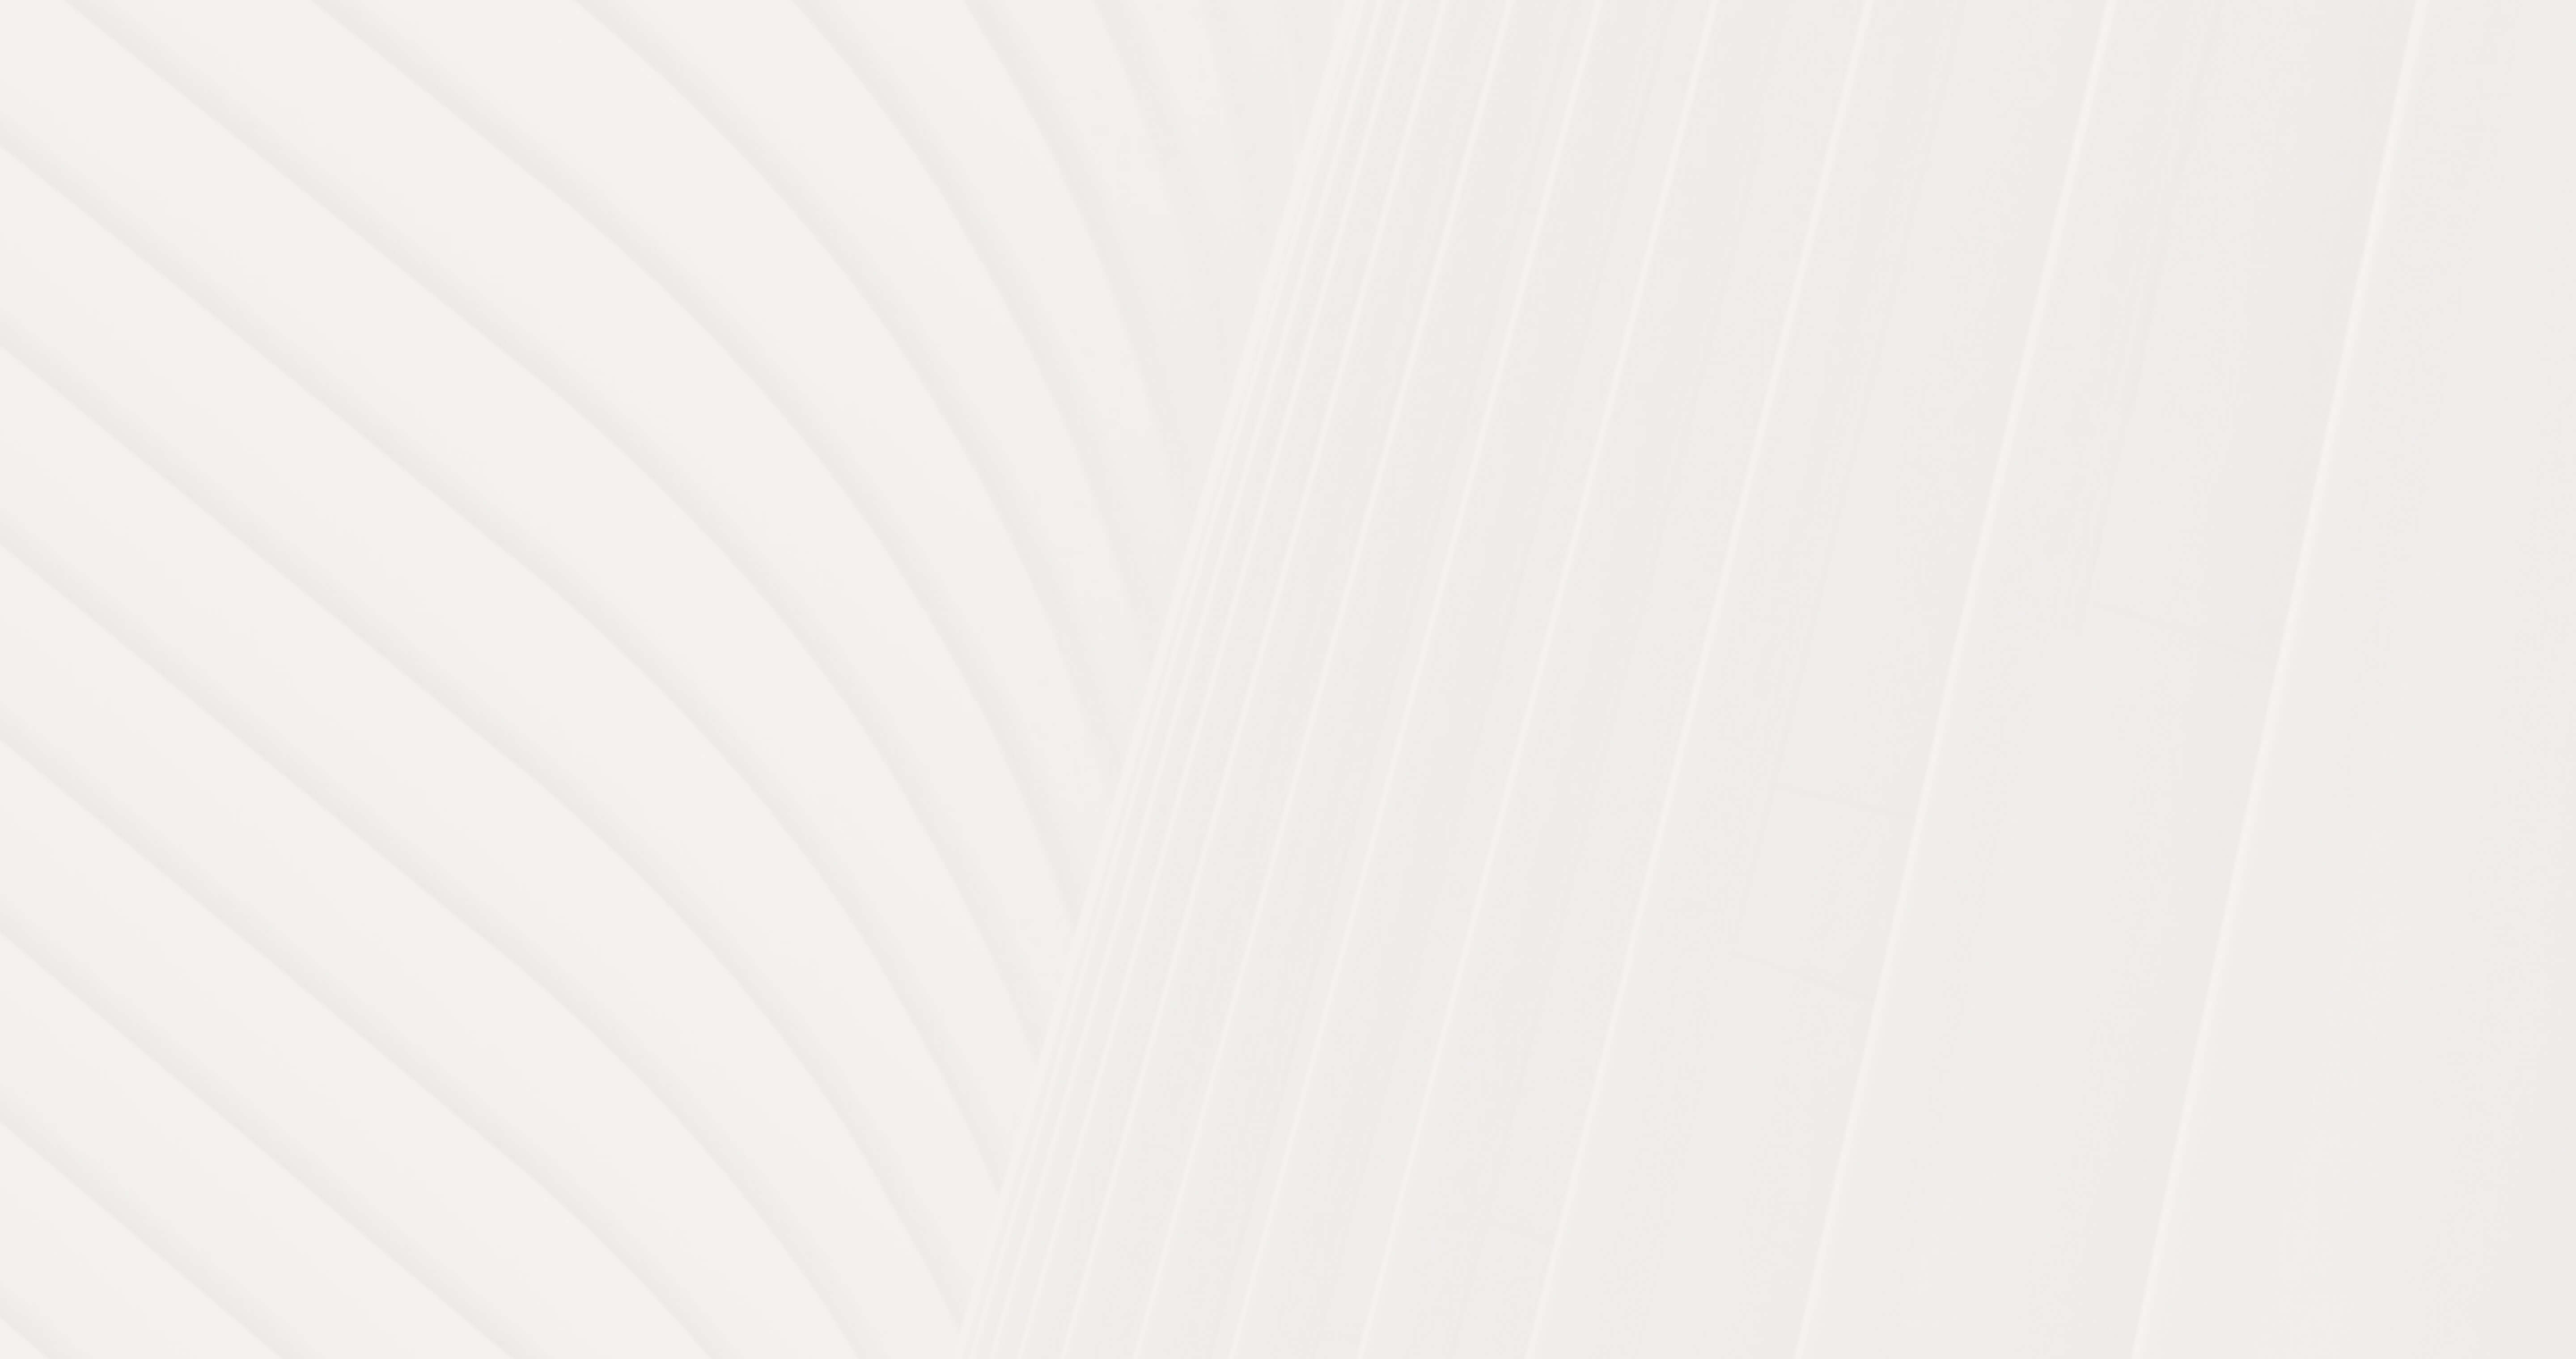
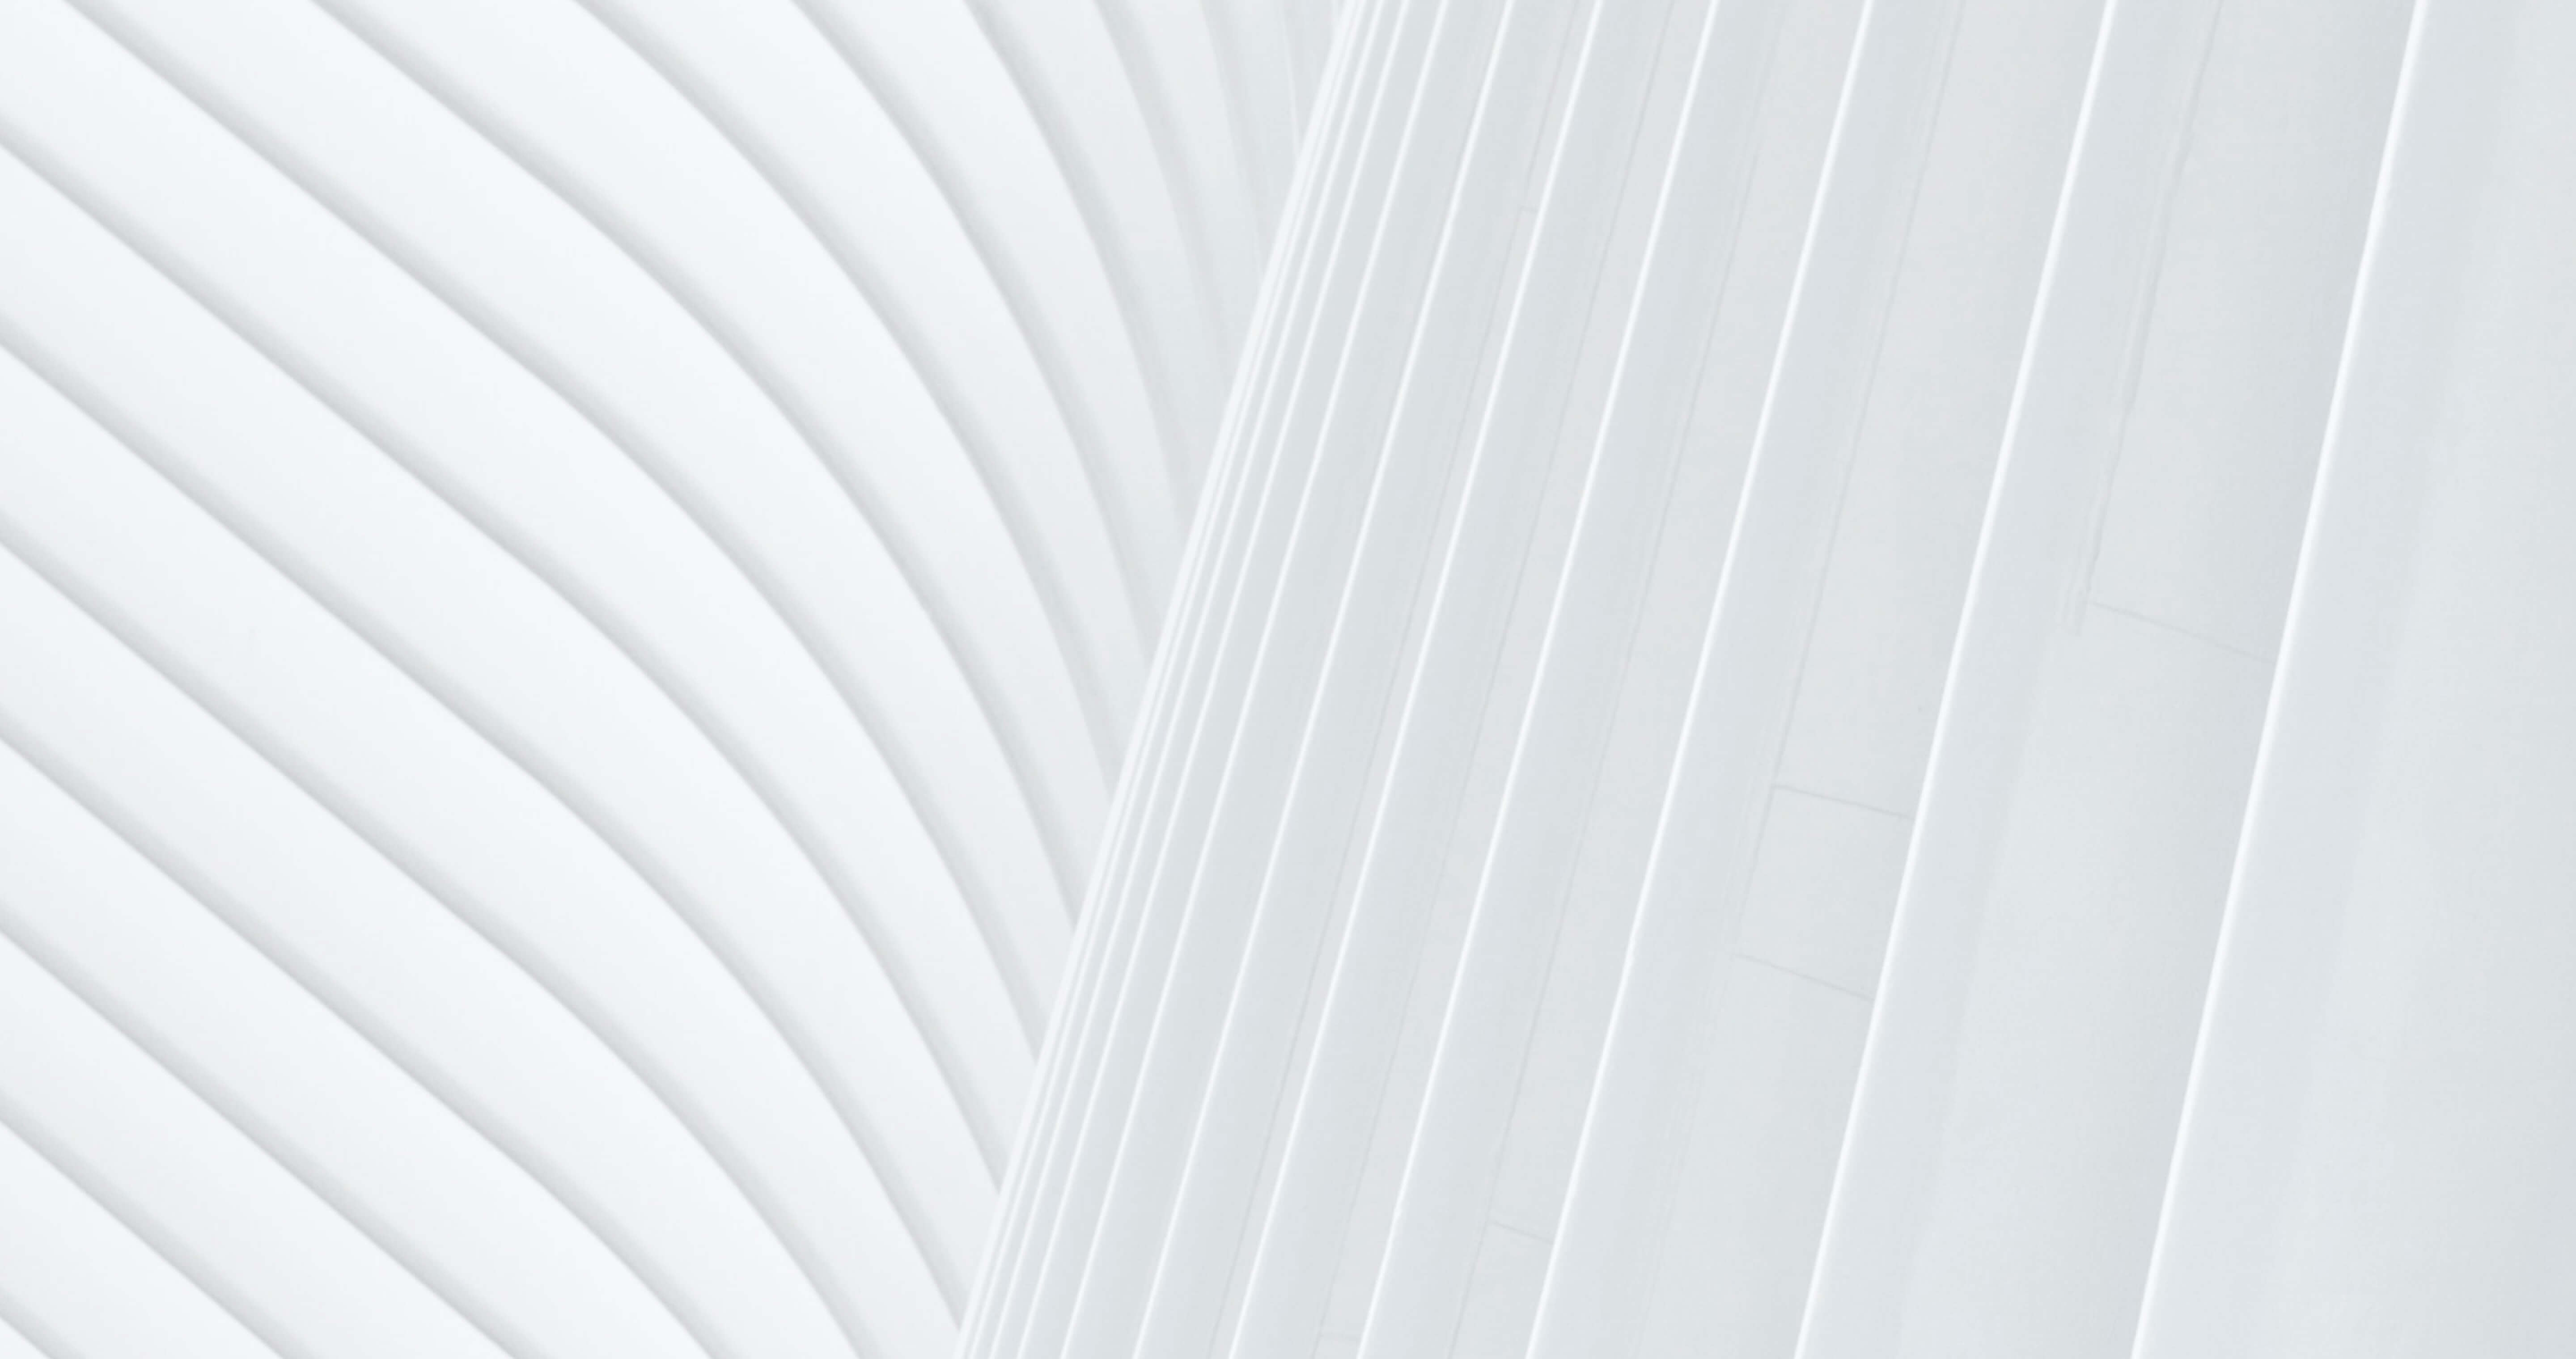
Update

diff --git a/src/index.html b/src/index.html
@@ -45,7 +45,7 @@
             <source srcset="assets/images/tell-story/bg-1440x760@4x.webp" type="image/webp">
             <img src="assets/images/tell-story/bg-1440x760@4x.jpg" alt="Background" class="tell-story__bg-image">
           </picture>
-          <div class="tell-story__bg-gradient"></div>
+          <div class="tell-story__bg-color"></div>
         </div>
         <div class="tell-story__container">
           <div class="tell-story__title-wrapper">
@@ -57,6 +57,74 @@
               <span class="arrow-link__text">tell my story</span>
               <img src="assets/images/arrow.svg" alt="Arrow" class="arrow-link__arrow">
             </a>
+          </div>
+        </div>
+      </section>
+      <section class="quote">
+        <div class="quote__container">
+          <div class="quote__content">
+            <div class="quote__small-quotes-wrapper"><img src="assets/images/quote/quotes.svg" alt="Quotes" class="quote__small-quotes"></div>
+            <p class="quote__text">Clients hire us because we deliver results. We think like entrepreneurs and create opportunities where none existed. We build long lasting connections and value personal relationships with our clients, media and influencers. We use a customized approach to solve our clients’ business challenges and we do this with finesse.</p>
+          </div>
+          <div class="quote__big-quotes-wrapper"><img src="assets/images/quote/quotes.svg" alt="Quotes" class="big-quotes"></div>
+        </div>
+      </section>
+      <section class="offer">
+        <div class="offer__container">
+          <div class="offer__top">
+            <h2 class="offer__title title">How we can help</h2>
+            <div class="offer__arrow-link-wrapper">
+              <a href="#" class="tell-story__arrow-link arrow-link">
+                <span class="arrow-link__text">tell me more</span>
+                <img src="assets/images/arrow.svg" alt="Arrow" class="arrow-link__arrow">
+              </a>
+            </div>
+          </div>
+          <div class="offer__cards">
+            <div class="offer__card card-offer">
+              <div class="card-offer__bg">
+                <img src="assets/images/card-offer/card-offer-bg@4x.jpg" alt="Offer card background" class="card-offer__bg-image">
+                <div class="card-offer__bg-color"></div>
+              </div>
+              <div class="card-offer__content">
+                <h3 class="card-offer__title">Public Relations</h3>
+                <p class="card-offer__desc">While the definition of Public Relations remains the same, the landscape is entirely different. As a PR agency, this makes strategy and relationships more important than ever. Our network of contacts runs deep throughout the…</p>
+                <a href="#" class="card-offer__more">Read more...</a>
+              </div>
+            </div>
+            <div class="offer__card card-offer">
+              <div class="card-offer__bg">
+                <img src="assets/images/card-offer/card-offer-bg@4x.jpg" alt="Offer card background" class="card-offer__bg-image">
+                <div class="card-offer__bg-color"></div>
+              </div>
+              <div class="card-offer__content">
+                <h3 class="card-offer__title">Public Relations</h3>
+                <p class="card-offer__desc">While the definition of Public Relations remains the same, the landscape is entirely different. As a PR agency, this makes strategy and relationships more important than ever. Our network of contacts runs deep throughout the…</p>
+                <a href="#" class="card-offer__more">Read more...</a>
+              </div>
+            </div>
+            <div class="offer__card card-offer">
+              <div class="card-offer__bg">
+                <img src="assets/images/card-offer/card-offer-bg@4x.jpg" alt="Offer card background" class="card-offer__bg-image">
+                <div class="card-offer__bg-color"></div>
+              </div>
+              <div class="card-offer__content">
+                <h3 class="card-offer__title">Public Relations</h3>
+                <p class="card-offer__desc">While the definition of Public Relations remains the same, the landscape is entirely different. As a PR agency, this makes strategy and relationships more important than ever. Our network of contacts runs deep throughout the…</p>
+                <a href="#" class="card-offer__more">Read more...</a>
+              </div>
+            </div>
+            <div class="offer__card card-offer">
+              <div class="card-offer__bg">
+                <img src="assets/images/card-offer/card-offer-bg@4x.jpg" alt="Offer card background" class="card-offer__bg-image">
+                <div class="card-offer__bg-color"></div>
+              </div>
+              <div class="card-offer__content">
+                <h3 class="card-offer__title">Public Relations</h3>
+                <p class="card-offer__desc">While the definition of Public Relations remains the same, the landscape is entirely different. As a PR agency, this makes strategy and relationships more important than ever. Our network of contacts runs deep throughout the…</p>
+                <a href="#" class="card-offer__more">Read more...</a>
+              </div>
+            </div>
           </div>
         </div>
       </section>

diff --git a/src/scss/blocks/quote.scss b/src/scss/blocks/quote.scss
@@ -1,0 +1,79 @@
+.quote {
+  padding: 160px 0;
+  background-color: $gray;
+  @media (max-width: $sm) {
+    padding: 80px 0;
+  }
+  &__container {
+    @extend %container;
+    @extend %grid;
+    @media (max-width: $sm) {
+      max-width: none;
+    }
+  }
+  &__content {
+    grid-column: 2 / span 4;
+    display: flex;
+    position: relative;
+    z-index: 1;
+    @media (max-width: $md) {
+      grid-row: 1 / 2;
+      grid-column: 1 / -1;
+    }
+  }
+  &__small-quotes-wrapper {
+    flex: 0 0 28px;
+    margin-right: 27px;
+    @media (max-width: $xs) {
+      display: none;
+    }
+  }
+  &__small-quotes {
+    @extend %responsive-image;
+    filter: invert(9%) sepia(21%) saturate(5680%) hue-rotate(201deg) brightness(96%) contrast(97%);
+  }
+  &__text {
+    margin: 0;
+    margin-top: 20px;
+    font-family: Poppins, sans-serif;
+    font-weight: 500;
+    font-size: 23px;
+    line-height: 145%;
+    color: $black;
+    @media (max-width: $xs) {
+      font-size: calc( 7/448 * 100vw + 4928px/448 );
+    }
+    @media (max-width: $xxs) {
+      font-size: 16px;
+    }
+  }
+  &__big-quotes-wrapper {
+    margin-top: 185px;
+    @media (max-width: $md) {
+      grid-row: 1 / 2;
+      grid-column: 5 / -1;
+    }
+    @media (max-width: $sm) {
+      grid-column: 4 / -1;
+      margin-top: calc(-0.365 * 100vw + 465px);
+    }
+    @media (max-width: $xs) {
+      grid-column: 4 / -1;
+      margin-top: calc(-0.156 * 100vw + 255px);
+    }
+    @media (max-width: $xxs) {
+      margin-top: 205px;
+    }
+  }
+}
+.big-quotes {
+  @extend %responsive-image;
+  filter: invert(88%) sepia(7%) saturate(135%) hue-rotate(345deg) brightness(108%) contrast(86%);
+}
+
+// .quote__big-quotes-wrapper {
+//   grid-row: 1 / 2;
+// }
+// .quote__content {
+//   grid-row: 1 / 2;
+// }

diff --git a/src/scss/blocks/card-offer.scss b/src/scss/blocks/card-offer.scss
@@ -1,0 +1,65 @@
+.card-offer {
+  position: relative;
+  padding: 47px 40px 50px;
+  border-top: 3px solid $orange;
+  background-color: $white;
+  transition: all 200ms ease;
+  &:hover {
+    color: $white;
+    .card-offer__bg {
+      opacity: 1;
+    }
+    .card-offer__more {
+      color: $white;
+    }
+  }
+  &__bg {
+    opacity: 0;
+    position: absolute;
+    left: 0;
+    top: 0;
+    width: 100%;
+    height: 100%;
+    transition: all 200ms ease;
+  }
+  &__bg-image {
+    position: absolute;
+    left: 0;
+    top: 0;
+    width: 100%;
+    height: 100%;
+    object-fit: cover;
+  }
+  &__bg-color {
+    position: absolute;
+    left: 0;
+    top: -1px;
+    bottom: 0;
+    width: 100%;
+    background-color: rgba($orange, 0.8);
+  }
+  &__content {
+    position: relative;
+    z-index: 1;
+  }
+  &__title {
+    font-family: Poppins;
+    font-weight: 500;
+    font-size: 24px;
+    line-height: 122%;
+    text-transform: capitalize;
+  }
+  &__more {
+    text-decoration: none;
+    display: inline-block;
+    font-weight: 500;
+    line-height: 165%;
+    text-transform: capitalize;
+    border-bottom: 1px solid $orange;
+    color: $black;
+    transition: all 200ms ease;
+    &:hover {
+      color: $orange;
+    }
+  }
+}

diff --git a/src/scss/blocks/offer.scss b/src/scss/blocks/offer.scss
@@ -1,0 +1,57 @@
+.offer {
+  padding: 160px 0;
+  background-color: $gray;
+  @media (max-width: $md) {
+    padding: 80px 0;
+  }
+  &__container {
+    @extend %container;
+  }
+  &__top {
+    display: flex;
+    @media (max-width: $md) {
+      flex-wrap: wrap;
+    }
+  }
+  &__title {
+    flex: 1 1 auto;
+    @media (max-width: $md) {
+      margin-bottom: 20px;
+    }
+  }
+  &__arrow-link-wrapper {
+    padding: 9px 0;
+  }
+  &__cards {
+    margin-top: 64px;
+    display: grid;
+    grid-template-columns: repeat(4, 1fr);
+    gap: 20px;
+    @media (max-width: $xl) {
+      grid-template-columns: repeat(6, 1fr);
+    }
+    @media (max-width: $md) {
+      grid-template-columns: repeat(2, 1fr);
+    }
+    @media (max-width: $sm) {
+      grid-template-columns: 1fr;
+    }
+  }
+  &__card {
+    @media (max-width: $xl) {
+      grid-column: span 2;
+    }
+    @media (max-width: $md) {
+      grid-column: auto;
+    }
+    &:nth-child(2n + 1) {
+      @media (max-width: $xl) {
+        grid-column: 2 / span 2;
+      }
+      @media (max-width: $md) {
+        grid-column: auto;
+      }
+    }
+  }
+}
+

diff --git a/src/scss/main.scss b/src/scss/main.scss
@@ -2,7 +2,9 @@
 $black: #0A2042;
 $orange: #F87556;
 $white: #FFFFFF;
+$gray: #F4F0ED;
 
+$xxs: 320px;
 $xs: 575.98px;
 $sm: 767.98px;
 $md: 991.98px;
@@ -39,6 +41,13 @@ $safe-padding: 15px;
   gap: 24px;
 }
 
+// Responsive image
+%responsive-image {
+  display: block;
+  width: 100%;
+  height: auto;
+}
+
 // Settings
 html, 
 body {
@@ -66,7 +75,10 @@ body {
 @import "blocks/burger-menu.scss";
 @import "blocks/title.scss";
 @import "blocks/arrow-link.scss";
+@import "blocks/card-offer.scss";
 
 // Sections
 @import "blocks/header.scss";
 @import "blocks/tell-story.scss";
+@import "blocks/quote.scss";
+@import "blocks/offer.scss";

diff --git a/src/scss/blocks/tell-story.scss b/src/scss/blocks/tell-story.scss
@@ -20,6 +20,15 @@
     height: 100%;
     object-fit: cover;
   }
+  &__bg-color {
+    position: absolute;
+    left: 0;
+    top: 0;
+    width: 100%;
+    height: 100%;
+    object-fit: cover;
+    background-color: rgba($gray, 0.76);
+  }
   &__container {
     @extend %container;
     @extend %grid;
